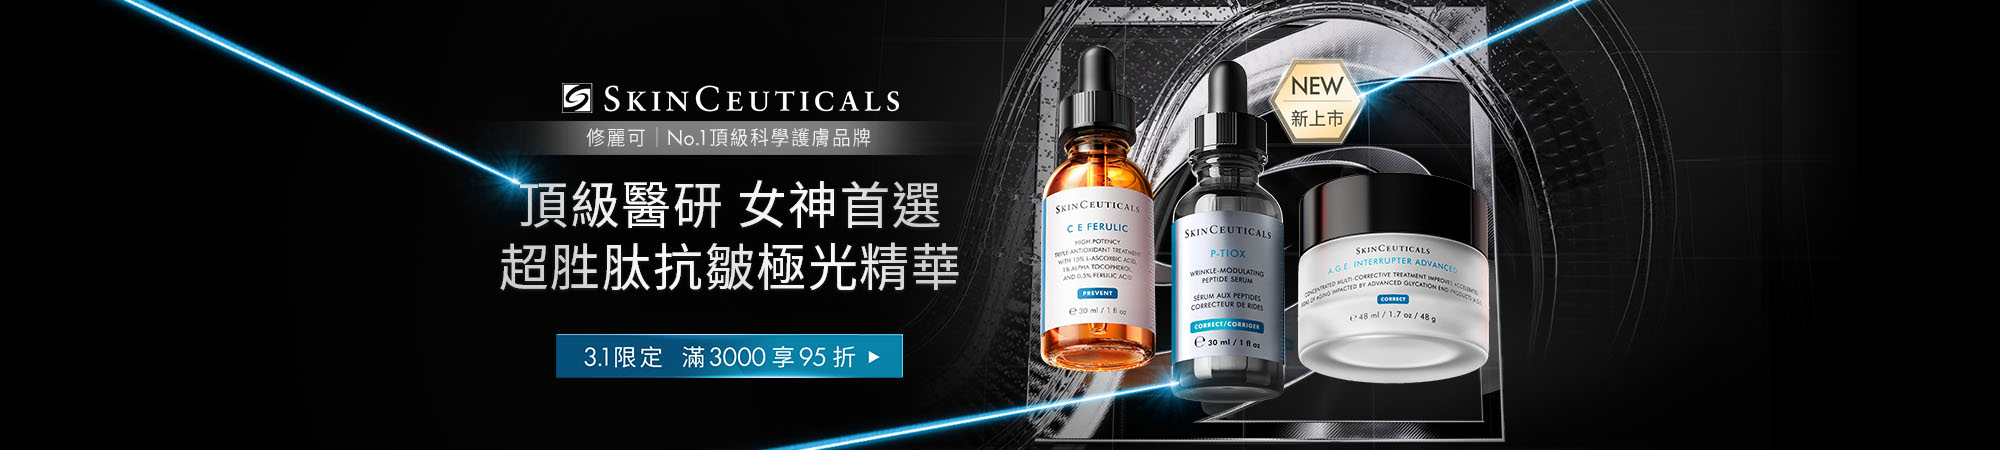
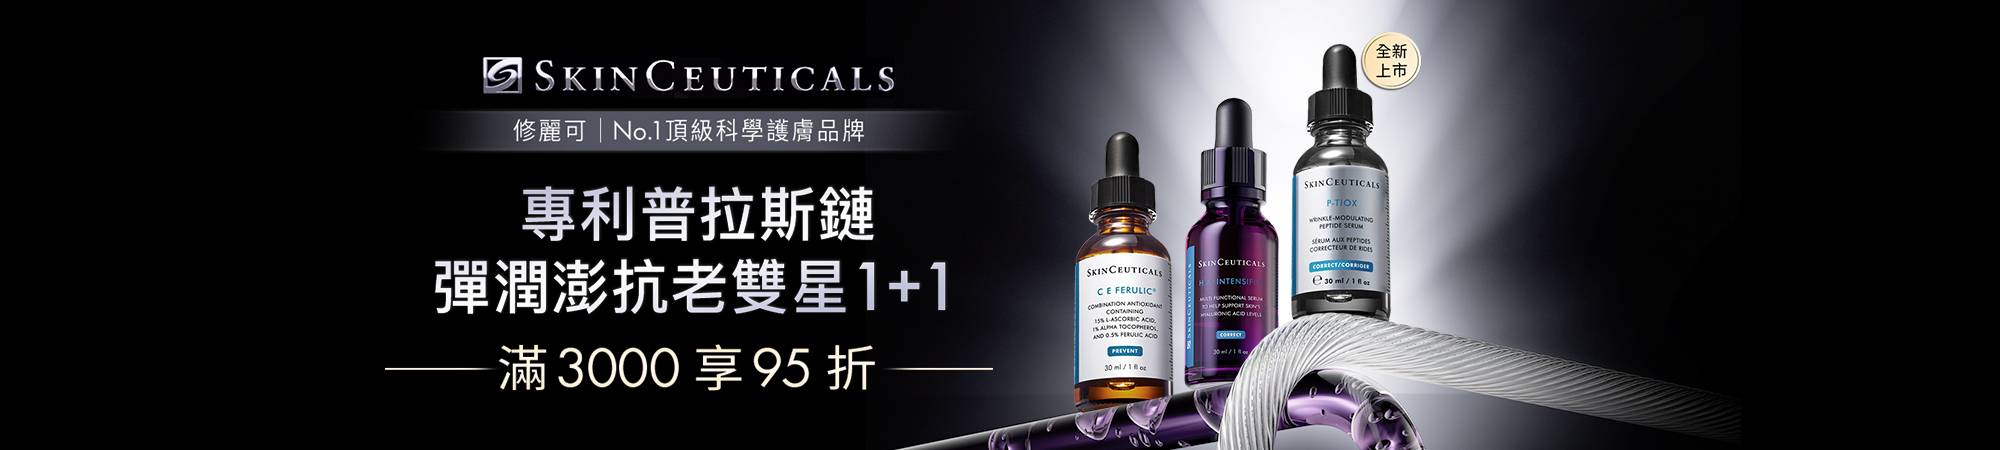
[Chg] 修正壓縮圖片

diff --git a/main.html b/main.html
@@ -124,8 +124,8 @@
 		<div class="Area Area1220 Area_allbox">
 			<img class="lazy" data-original="images/Area_txt0.jpg" />
 			<a href="https://www.momoshop.com.tw/category/DgrpCategory.jsp?d_code=2176300008&p_orderType=4&showType=chessboardType" target="_blank">
-			<img class="lazy for_pc" data-original="images/Area_BN0301.jpg"/>
-			<img class="for_m" src="images/Area_BN0301.jpg"></a>
+			<img class="lazy for_pc" data-original="images/Area_BN1220_00.jpg"/>
+			<img class="for_m" src="images/Area_BN1220_00.jpg"></a>
 		</div>
 
 		<!-- P-TIOX -->
@@ -136,9 +136,6 @@
 		</div> -->
 
 		<div class="Area Area1220 Area_allbox">
-			<!-- <a href="https://www.momoshop.com.tw/goods/GoodsDetail.jsp?i_code=13476671"> -->
-				<!-- <video src="images/PTIOX_202502.mp4" width="100%" loop="" autoplay="" muted="" playsinline="true" webkit-playsinline="true" x5-playsinline="true" x-video-player-type="h5"></video> -->
-			<!-- </a> -->
 			<div class="ytb-video-box">
 				<div class="video-container">
 					<a style="height: 100%;" href="https://www.momoshop.com.tw/goods/GoodsDetail.jsp?i_code=13476671">
